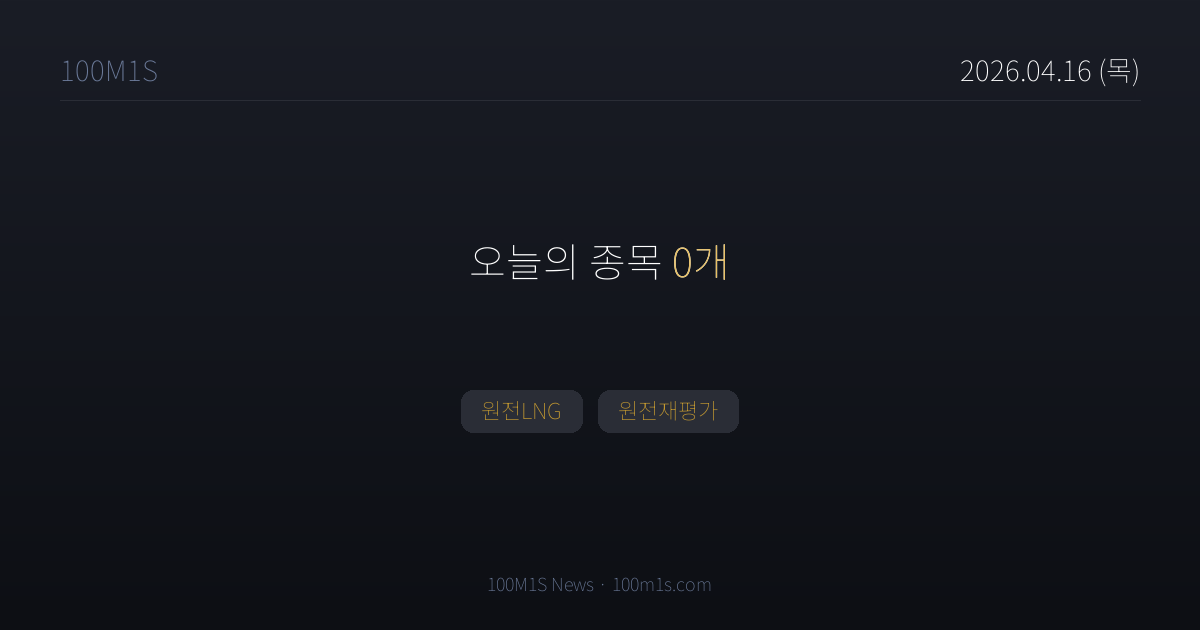
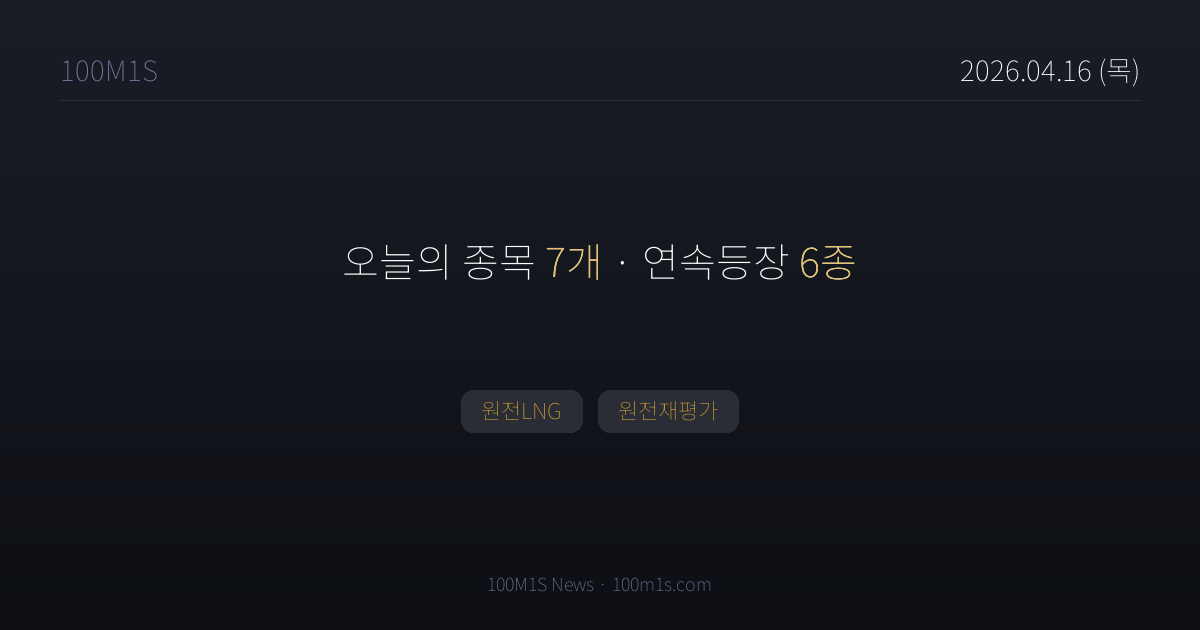
chore(news): 2026-04-16T09:19 pipeline

Changed region(s): [[0.2775, 0.3921, 0.7092, 0.4524]]

diff --git a/news/stock/2026-04-16.html b/news/stock/2026-04-16.html
@@ -3,7 +3,7 @@
 <head>
 <meta charset="UTF-8">
 <title>4월 16일 (목) 뉴스 — 100M1S</title>
-<meta property="og:title" content="4월 16일 (목) · 종목 0개">
+<meta property="og:title" content="4월 16일 (목) · 종목 7개">
 <meta property="og:description" content="원전LNG, 원전재평가">
 <meta property="og:image" content="https://100m1s.com/og/news/stock/2026-04-16.png">
 <meta property="og:image:width" content="1200">
